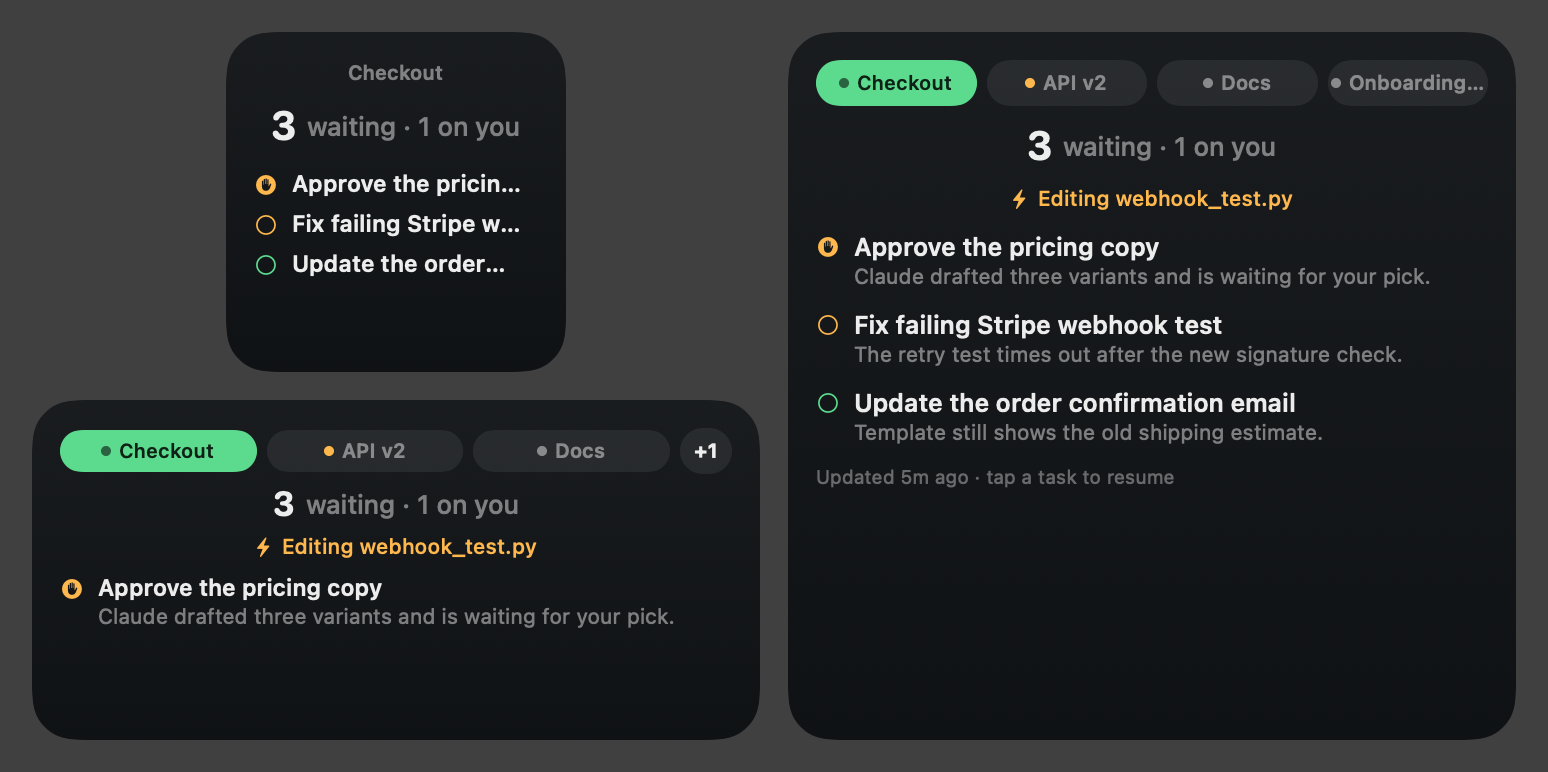
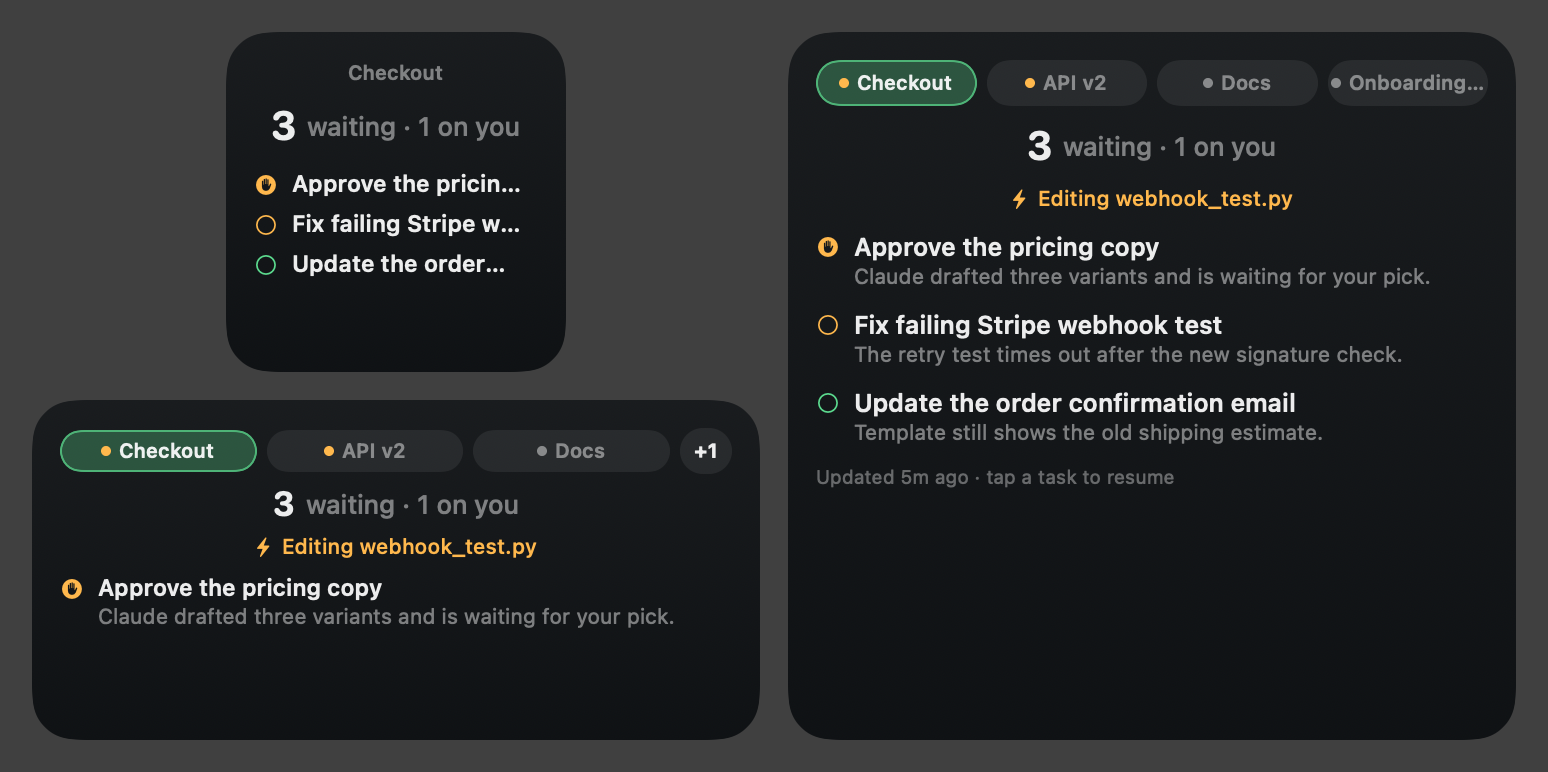
Widget: readable selected tab when macOS tints the widget

Changed region(s): [[0.5271, 0.0622, 0.6512, 0.1554], [0.031, 0.5596, 0.186, 0.6218]]

diff --git a/Shared/WidgetViews.swift b/Shared/WidgetViews.swift
@@ -132,14 +132,16 @@ struct TodoWidgetView: View {
                 let isSelected = session.id == selected?.id
                 Button(intent: SelectSessionIntent(sessionID: session.id)) {
                     HStack(spacing: 4) {
-                        if session.id != "manual" { Circle().fill(isSelected ? Color.black.opacity(0.55) : session.busy ? Look.amber : session.live ? Look.accent : Look.dim).frame(width: 5, height: 5) }
+                        if session.id != "manual" { Circle().fill(session.busy ? Look.amber : session.live ? Look.accent : Look.dim).frame(width: 5, height: 5) }
                         Text(session.title).lineLimit(1)
                     }
                     .font(.system(size: 10, weight: .semibold))
-                    .foregroundStyle(isSelected ? Color.black.opacity(0.85) : Look.dim)
+                    // light text on a translucent pill: stays readable when macOS tints the widget (accented mode)
+                    .foregroundStyle(isSelected ? Look.text : Look.dim)
                     .frame(maxWidth: .infinity)
                     .padding(.vertical, family == .systemMedium ? 4 : 5)
-                    .background(isSelected ? Look.accent : Look.chip, in: Capsule())
+                    .background(isSelected ? Look.accent.opacity(0.30) : Look.chip, in: Capsule())
+                    .overlay(Capsule().strokeBorder(Look.accent.opacity(isSelected ? 0.7 : 0), lineWidth: 1))
                 }
                 .buttonStyle(.plain)
             }
